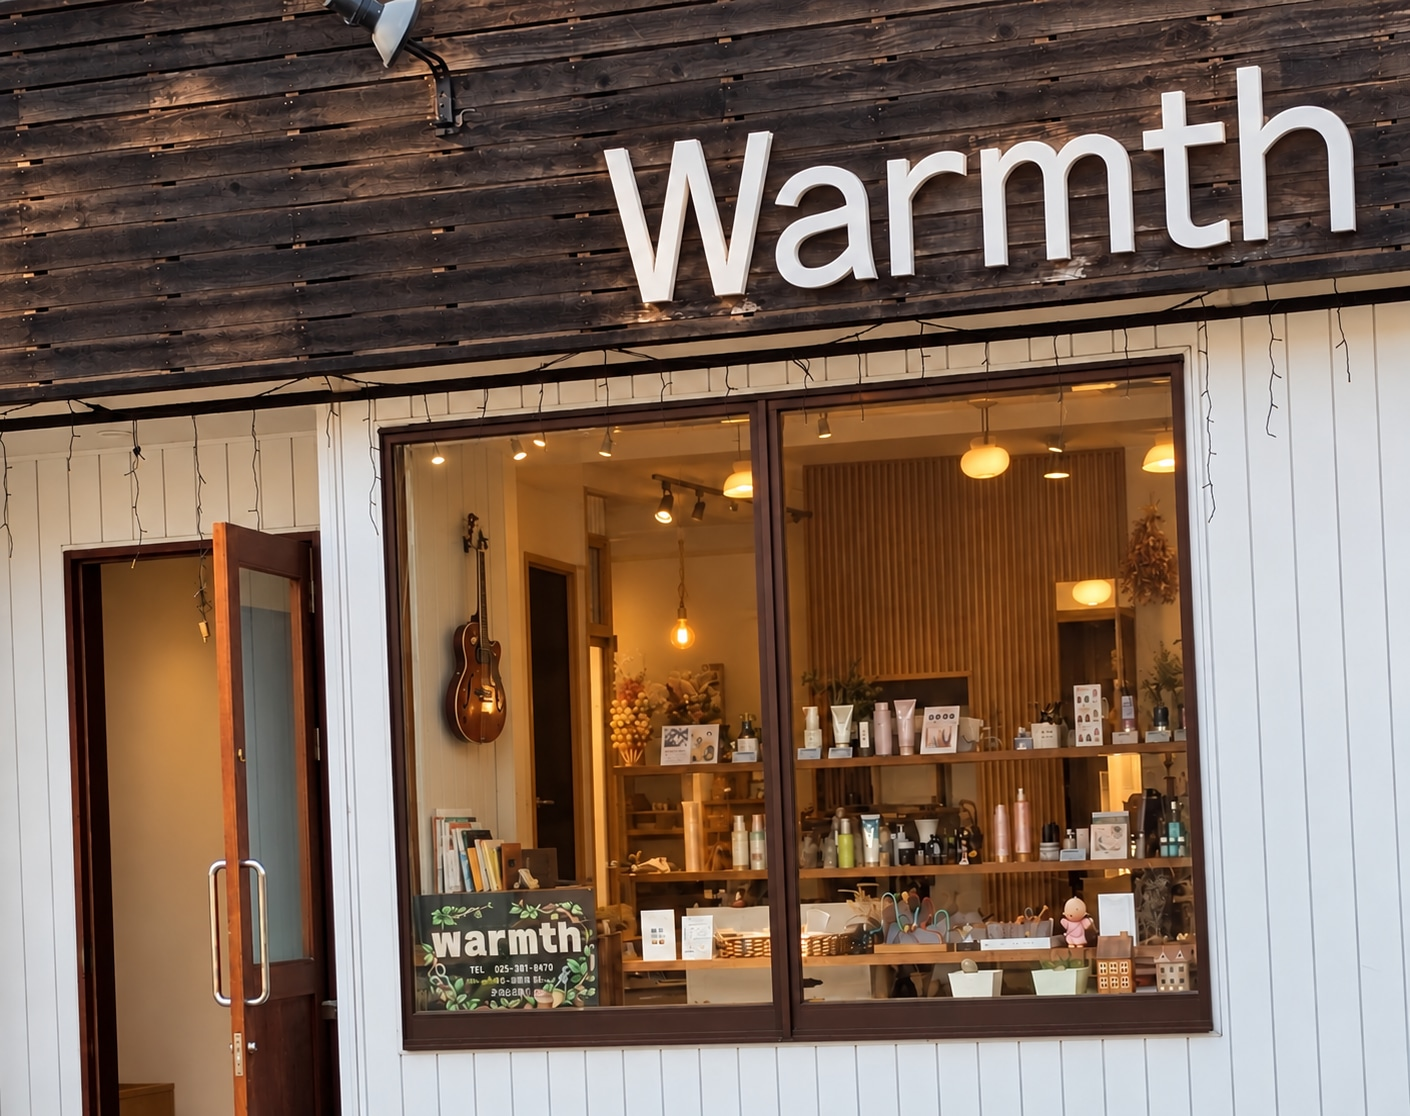
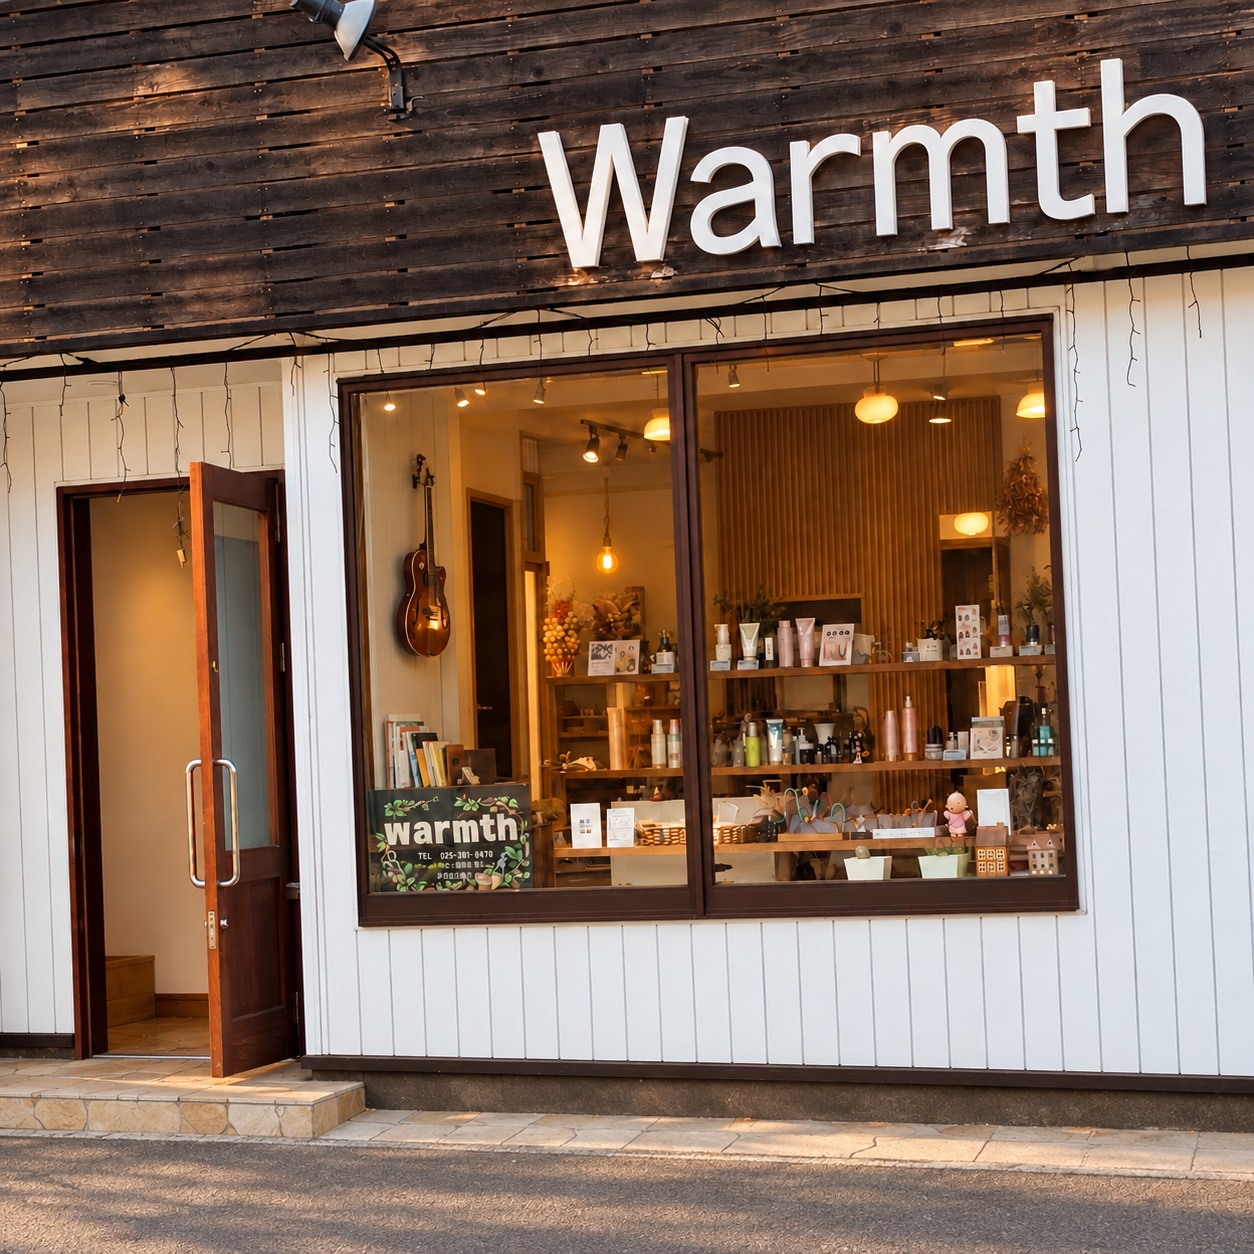
Update hero image and fit full image within responsive layout

diff --git a/style.css b/style.css
@@ -59,11 +59,11 @@ a{color:inherit}
 /* ---------- hero ---------- */
 .hero{padding:72px 0 88px;border-bottom:1px solid var(--usu)}
 .hero .wrap{display:grid;grid-template-columns:auto 1fr 1.05fr;gap:48px;
-  align-items:start}
+  align-items:stretch}
 .vtitle{
   writing-mode:vertical-rl;font-family:var(--mincho);font-weight:600;
   font-size:clamp(30px,3.4vw,42px);line-height:1.7;letter-spacing:.16em;
-  height:400px;margin:0;
+  height:auto;align-self:start;margin:0;
 }
 .vtitle .em{color:var(--kincha)}
 .heroside{padding-top:8px}
@@ -79,8 +79,10 @@ a{color:inherit}
 .photo img{width:100%;height:100%;object-fit:cover}
 .photo::after{content:attr(data-label);position:absolute;left:14px;bottom:12px;
   font-size:11px;letter-spacing:.14em;color:var(--muted)}
-.photo-hero{aspect-ratio:4/5}
-.photo-hero img{object-position:right center}
+.hero .photo-hero{min-width:0;min-height:0}
+.hero .photo-hero img{position:absolute;inset:0;display:block;
+  width:auto;height:auto;max-width:100%;max-height:100%;margin:auto;
+  object-fit:contain;object-position:center}
 @media(max-width:900px){
   .hero .wrap{grid-template-columns:1fr}
   .vtitle{grid-column:1;grid-row:1;align-self:center;z-index:1;
@@ -88,7 +90,8 @@ a{color:inherit}
     font-size:clamp(26px,7vw,34px);line-height:1.75;letter-spacing:.08em}
   .vtitle .marker{padding:0 8px;
     background:linear-gradient(to bottom,transparent 30%,rgba(237,238,232,.86) 30%) center/90% 100% no-repeat}
-  .photo-hero{grid-column:1;grid-row:1;aspect-ratio:4/3}
+  .photo-hero{grid-column:1;grid-row:1}
+  .hero .photo-hero img{position:static;width:100%;height:auto;max-height:none}
   .heroside{grid-column:1;grid-row:2}
 }
 

diff --git a/index.html b/index.html
@@ -53,7 +53,7 @@
       </ul>
     </div>
     <div class="photo photo-hero">
-      <img src="images/store_front_hero.webp" alt="Warmthの店舗外観">
+      <img src="images/hero_pixel6a_b.jpg" alt="Warmthの店舗外観">
     </div>
   </div>
 </header>
